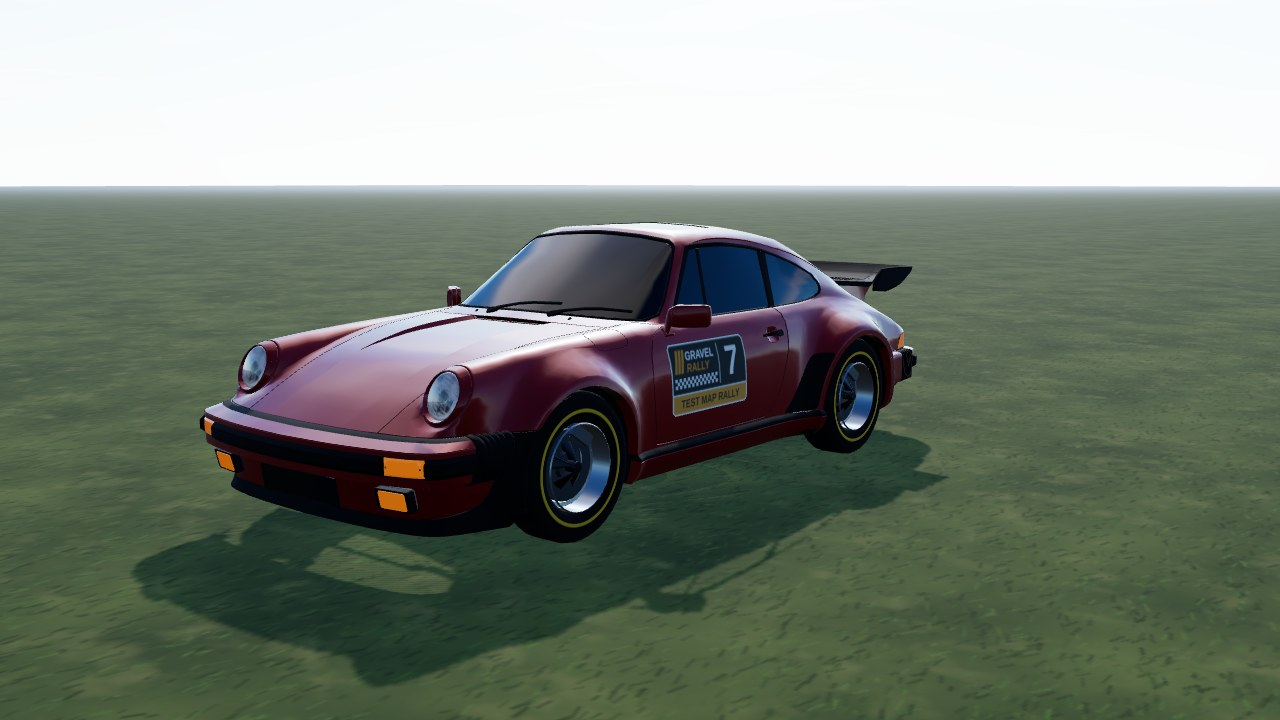
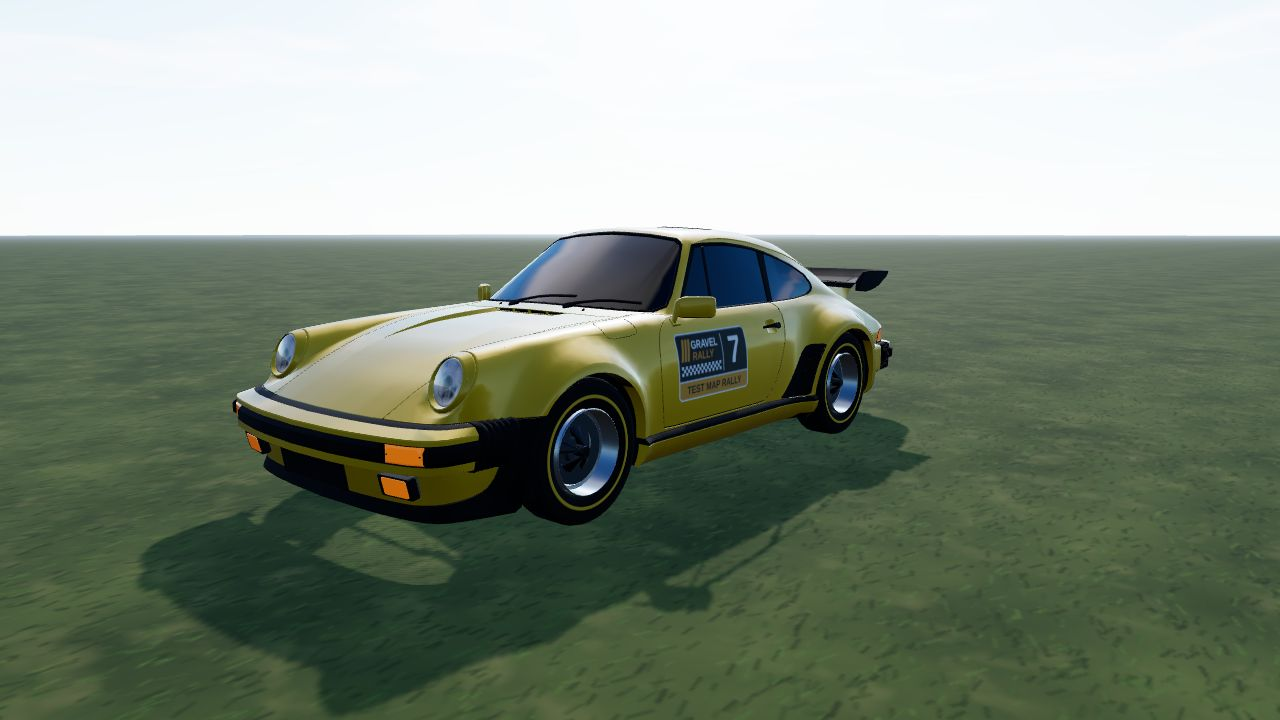
Rally: Porsche 930 yellow paint, no caliper, solid rim
- default paint is Porsche yellow
- rim.caliper false hides the caliper box (used by the 930)
- two-tone rim material is double-sided, so the rim no longer looks broken from the side
- new screenshots, docs and third-party notes updated

diff --git a/src/games/rally/cars/shared/car-model.ts b/src/games/rally/cars/shared/car-model.ts
@@ -1000,6 +1000,8 @@ export class CarModel {
       this.rimColoredMat = this.rimMat.clone();
       this.rimColoredMat.color.set(0xffffff);
       this.rimColoredMat.vertexColors = true;
+      // The model's rim is a thin dished shell with no barrel: seen from inside / the side it must not vanish.
+      this.rimColoredMat.side = DoubleSide;
       this.owned.push(this.rimColoredMat);
     }
     return this.rimColoredMat;
@@ -1154,6 +1156,10 @@ export function buildWheelSet(
   const scale = barrel / RIM_UNIT_BARREL;
   const brakes = buildBrakeGeometries(scale, size.width);
   base.caliper.dispose();
+  if (def.model.rim.caliper === false) {
+    brakes.caliper.dispose();
+    brakes.caliper = new BoxGeometry(0.001, 0.001, 0.001);
+  }
   let rim = base.rim;
   const stlRim = stlRims.get(file);
   if (stlRim) {

diff --git a/src/games/rally/cars/shared/types.ts b/src/games/rally/cars/shared/types.ts
@@ -79,8 +79,8 @@ export interface CarModelDef {
     spokes: number;
     /** 'spoke' = alloy rally wheel, 'steel' = pressed steel disc with hub cap. */
     style?: 'spoke' | 'steel';
-    /** Brake caliper colour (default red). */
-    caliper?: string;
+    /** Brake caliper colour (default red); `false` = none (an old car whose wheel shows only the disc). */
+    caliper?: string | false;
   };
   /**
    * Window glass tint override (default: dark, 45% opaque). On an imported body it also replaces the opaque `glass`

diff --git a/src/games/rally/cars/porsche-911-930/porsche-911-930.ts b/src/games/rally/cars/porsche-911-930/porsche-911-930.ts
@@ -206,9 +206,9 @@ export const porsche911930: CarDef = {
     ]),
   },
   model: {
-    paint: '#b3161d',
+    paint: '#ffc800',
     // The model's own five-spoke rim (porsche_911_930_wheel.glb), de-cambered and centred on the hub.
-    rim: { color: '#c9ccd0', spokes: 5, style: 'spoke', caliper: '#7a7c80' },
+    rim: { color: '#c9ccd0', spokes: 5, style: 'spoke', caliper: false },
     wheelModel: 'porsche_911_930_wheel.glb',
     suspensionStyle: 'classic',
     cornerSuspension: {

diff --git a/src/games/rally/DETAILS.md b/src/games/rally/DETAILS.md
@@ -146,18 +146,18 @@ underpasses". Tests: `tests/rally/` `bridges`, `city-maps`, `junctions`, `side-r
 
 ## Cars
 
-| id                | name               | drive | notes                                                                                                  |
-| ----------------- | ------------------ | ----- | ------------------------------------------------------------------------------------------------------ |
-| `skoda_rally`     | Skoda Rally        | AWD   | Rally2-class hatch from a CC BY Fabia R5 model, own livery                                             |
-| `bimmer_m3`       | Bimmer M3          | RWD   | lowered E46 coupe from a CC BY print model, own livery                                                 |
-| `bimmer_gt2`      | Bimmer GT2         | RWD   | wide-body E92 GT2 racer from a CC BY Sketchfab model, clean livery (test only)                         |
-| `subie_22b`       | Subaru WRX STI 22B | AWD   | widebody GC8 / 22B from a CC BY-NC Sketchfab model, crescent / stars graphic (test only)               |
-| `zastava_101`     | Zastava 101        | FWD   | stock "Stojadin", body hand-built from dimensions and a blueprint                                      |
-| `fiesta`          | Fiesta WRC         | AWD   | World Rally Car from a CC BY model with its cockpit, own rim and livery, test car                      |
-| `citroen_c4`      | Citroen C4 WRC     | AWD   | 2007 World Rally Car from a CC BY model with its cockpit, own rim and livery, test car                 |
-| `lancer_evo_6`    | Lancer EVO VI      | AWD   | 1999-style Lancer from a CC BY model with its cockpit, own rim and livery, test car                    |
-| `ford_gt3`        | Ford Mustang GT3   | RWD   | 2024 GT3 racer from a CC BY model kept as is (own cockpit, lamps, rim), flat dark blue paint, test car |
-| `porsche_911_930` | Porsche 911 (930)  | RWD   | 1975 911 Turbo from a CC BY model kept as is (own lamps, rim, no interior), flat red paint, test car   |
+| id                | name               | drive | notes                                                                                                   |
+| ----------------- | ------------------ | ----- | ------------------------------------------------------------------------------------------------------- |
+| `skoda_rally`     | Skoda Rally        | AWD   | Rally2-class hatch from a CC BY Fabia R5 model, own livery                                              |
+| `bimmer_m3`       | Bimmer M3          | RWD   | lowered E46 coupe from a CC BY print model, own livery                                                  |
+| `bimmer_gt2`      | Bimmer GT2         | RWD   | wide-body E92 GT2 racer from a CC BY Sketchfab model, clean livery (test only)                          |
+| `subie_22b`       | Subaru WRX STI 22B | AWD   | widebody GC8 / 22B from a CC BY-NC Sketchfab model, crescent / stars graphic (test only)                |
+| `zastava_101`     | Zastava 101        | FWD   | stock "Stojadin", body hand-built from dimensions and a blueprint                                       |
+| `fiesta`          | Fiesta WRC         | AWD   | World Rally Car from a CC BY model with its cockpit, own rim and livery, test car                       |
+| `citroen_c4`      | Citroen C4 WRC     | AWD   | 2007 World Rally Car from a CC BY model with its cockpit, own rim and livery, test car                  |
+| `lancer_evo_6`    | Lancer EVO VI      | AWD   | 1999-style Lancer from a CC BY model with its cockpit, own rim and livery, test car                     |
+| `ford_gt3`        | Ford Mustang GT3   | RWD   | 2024 GT3 racer from a CC BY model kept as is (own cockpit, lamps, rim), flat dark blue paint, test car  |
+| `porsche_911_930` | Porsche 911 (930)  | RWD   | 1975 911 Turbo from a CC BY model kept as is (own lamps, rim, no interior), flat yellow paint, test car |
 
 - A car is `cars/<car>/<car>.ts` (a `CarDef`: physics + model + sound) with its README. A GLB in `public/models/cars/` replaces the
   car's own body (`cars/shared/car-gltf.ts`; credits in `public/models/CREDITS.md`). Imports: rally-car-import skill.
@@ -215,6 +215,8 @@ Rendering: `cars/shared/tyre-mesh.ts` (tread per compound, compound ring), `susp
 `model.suspensionStyle`), `buildWheelSet` in `car-model.ts`.
 Cars whose model has empty wheel wells set `model.cornerSuspension` (`cars/shared/corner-suspension.ts`): a coil-over in the car's
 style plus arms / drive shafts, following the live wheel travel (Zastava, M3, GT2, C4, Lancer; Skoda, Fiesta, 22B show the model's own).
+A wheel GLB rim with `COLOR_0` vertex colours (two-tone, Porsche 930) gets its own `vertexColors` material (`rimColored` in
+`car-model.ts`); `rim.caliper: false` draws no caliper.
 
 ## Architecture
 

diff --git a/THIRD-PARTY.md b/THIRD-PARTY.md
@@ -54,7 +54,7 @@ repository.
 | `fiesta.glb`, `fiesta_wheel.glb`                                                         | "Ford Fiesta WRC" by kevin (Sketchfab)                                                                                                                                                                                                                                                        | CC BY 4.0                    |
 | `citroen_c4.glb`, `citroen_c4_wheel.glb`                                                 | "Citroen C4 WRC Red Bull 2007" by Max (Sketchfab; sponsor livery, boot-lid emblem and plate removed, repainted)                                                                                                                                                                               | CC BY 4.0                    |
 | `ford_gt3.glb`, `ford_gt3_wheel.glb`                                                     | "2024 Ford Mustang GT3" by kevin (Sketchfab; split by material and converted, tyres + discs + calipers dropped, logo banner dropped; rim extracted without nuts; flat paint at runtime)                                                                                                       | CC BY 4.0                    |
-| `porsche_911_930.glb`, `porsche_911_930_wheel.glb`, `porsche_911_930_lamp.png`           | "Porsche 911 (930) Turbo 1975" by Lexyc16 (Sketchfab; split by material and converted, wheels dropped, rear light wordmark replaced by a flat lens; rim extracted; headlamp texture kept; flat paint at runtime)                                                                              | CC BY 4.0                    |
+| `porsche_911_930.glb`, `porsche_911_930_wheel.glb`, `porsche_911_930_lamp.png`           | "Porsche 911 (930) Turbo 1975" by Lexyc16 (Sketchfab; split by material and converted, wheels dropped, rear light wordmark replaced by a flat lens; rim extracted, nuts dropped, recoloured two-tone; headlamp texture kept; flat paint at runtime)                                           | CC BY 4.0                    |
 | `lancer_evo_6.glb`, `lancer_evo_6_wheel.glb`, `lancer_evo_6_{lamps,seat,fabric,cab}.png` | "Mitsubishi Lancer Evolution 6" by vecarz (Sketchfab; converted and repainted, badges + plate removed; lamp and seat textures kept)                                                                                                                                                           | CC BY 4.0                    |
 
 The car liveries, parts, physics, door plates and every other asset are original and generated in code.

diff --git a/src/games/rally/cars/porsche-911-930/README.md b/src/games/rally/cars/porsche-911-930/README.md
@@ -6,9 +6,9 @@ material only (no cuts). In game it is **Porsche 911 (930)**: RWD, 1195 kg, 3.0 
 
 - **Kept from the model:** the body with its whale tail and bumpers, the headlamps (with their own texture) and tail lamps, the
   five-spoke rim (de-cambered, centred on the hub), ash-black centre with a silver lip.
-- **Dropped:** tyres, brake discs and the wheel nuts (a simpler rim); the wordmark on the rear light strip is now a plain red lens.
+- **Dropped:** tyres, brake discs and the wheel nuts (a simpler rim), and no caliper is drawn (`rim.caliper: false`); the wordmark on the rear light strip is now a plain red lens.
 - **No interior:** the model is an empty shell, so the windows are tinted.
-- **Paint (ours):** one flat red, other seeds recolour it; no logos or lettering.
+- **Paint (ours):** one flat Porsche yellow, other seeds recolour it; no logos or lettering.
 
 ![Front three-quarter](screenshots/front-34.jpg)
 
@@ -48,5 +48,5 @@ Power and torque are the published figures; gearbox ratios, tyre grip and brake 
 | Body, lamps, rim | ["Porsche 911 (930) Turbo 1975" by Lexyc16, Sketchfab](https://sketchfab.com/3d-models/porsche-911-930-turbo-1975-de1ffd344c41481892511f7fd332c136) | **CC BY 4.0**  |
 | Specification    | [Porsche Classic - 911 Turbo](https://www.porsche.com/usa/accessoriesandservice/classic/models/911-g/911-turbo/)                                    | reference only |
 
-Converted and repainted by us (attribution in `CarDef.credit`, `THIRD-PARTY.md`, `public/models/CREDITS.md`). The downloaded GLB
+Converted and repainted by us (attribution in `gltf.credit`, `THIRD-PARTY.md`, `public/models/CREDITS.md`). The downloaded GLB
 itself is not in the repository (`sources/` is git-ignored); only the converted `porsche_911_930.glb` / `_wheel.glb` / `_lamp.png` ship.

diff --git a/.claude/skills/rally-car-import/SKILL.md b/.claude/skills/rally-car-import/SKILL.md
@@ -148,7 +148,7 @@ Picking workflow (`parts.picks`, first pick wins):
    domed lamp glass (a bulge over each bowl) gets `parts.flatten` (one smooth cover through the lamp outline, `stl-to-glb.mjs`).
 7. Materials by name in `cars/shared/part-materials.ts`; add names there, never per-car material code. Clearcoat on
    dark parts (grille, wing) reflects the sky and reads grey - keep `clearcoat` <= 0.6 and `envMapIntensity` ~0.5
-   on blacks and carbon. Calipers / damper colours come from the CarDef (`rim.caliper`, `suspension.damper`).
+   on blacks and carbon. Calipers / damper colours come from the CarDef (`rim.caliper`, `false` = none; `suspension.damper`).
 
 Check each part close up in the viewer (lamp, vent, wing, arches **with the wheels hidden**:
 `__carViewer.model.tires.visible = false; __carViewer.model.rims.visible = false`). The GLB render of
